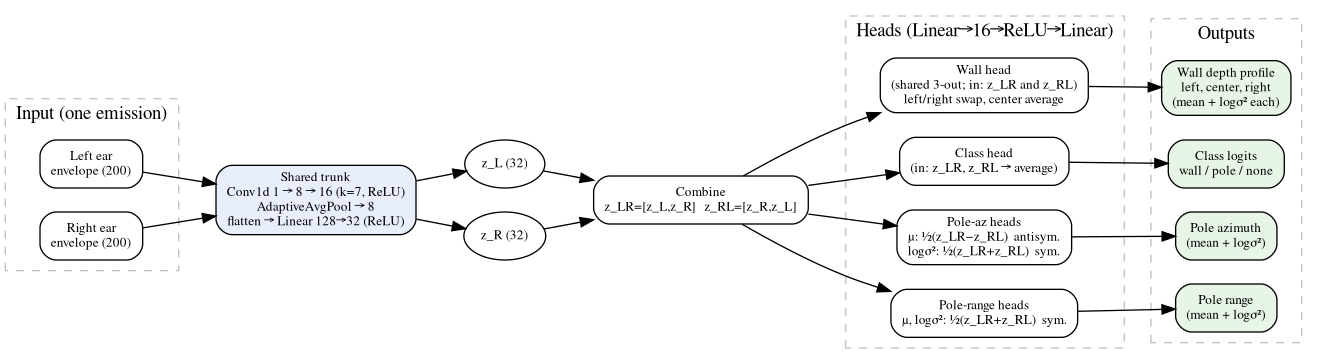
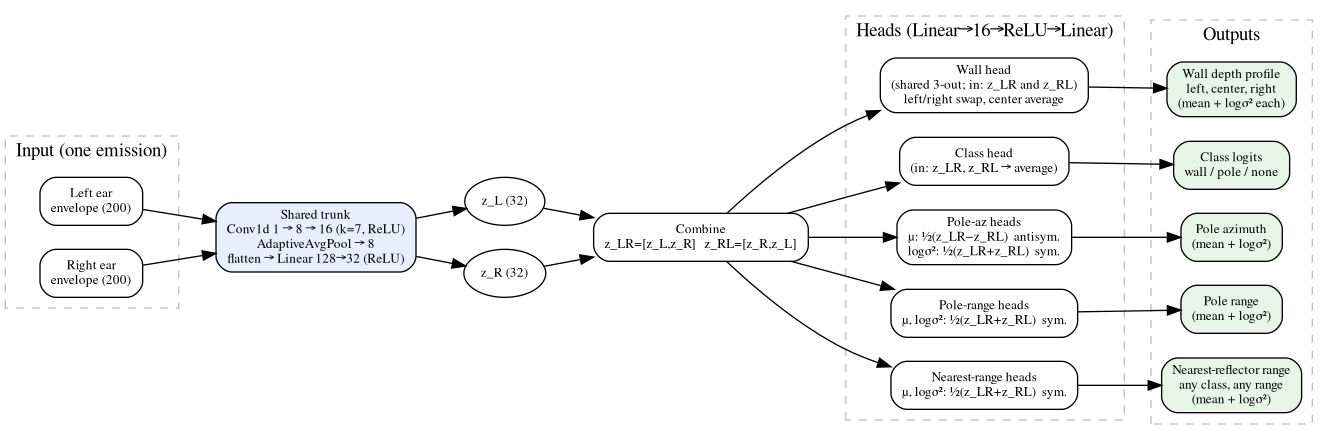
Paper: add the class-agnostic range head to fig 3
The network figure showed four heads; the deployed model has had five
since 8a3936a. fig_network.py now instantiates with agn_dist_head=True
and draws the nearest-reflector range head and its output.

The wiring was read off SonarModel.forward rather than assumed: the
agnostic head is mirror-symmetric, combined as (z_LR + z_RL)/2 like the
pole-range head, not antisymmetric like pole azimuth.

Checked CFG against the deployed SonarModel/inverse_feature_params.json
(architecture.wall3_symmetric / wall3_pole_dist / wall3_agn_dist all
true, and every layer dimension). They agree today, but CFG is
hard-coded and nothing enforces that -- worth reading from
feature_params with a CFG fallback if this drifts again.

Caption and the two body sentences that count heads go four -> five, and
"three regression heads" -> four. The caption now states what separates
the two range heads: pole range is masked to poles within 1 m and feeds
the terminal approach stop, nearest-reflector range trains on every echo
at every range.

Still stale in this subsection: the training objective and
tab:inverse-params do not mention the fifth head.

Claude-Session: https://claude.ai/code/session_0154RJNUjkho1gxRgDvTdzco

Changed region(s): [[0.0, 0.0302, 0.9954, 0.967]]

diff --git a/Paper/main.tex b/Paper/main.tex
@@ -138,7 +138,7 @@ For each robot position and orientation, we also collected a visual snapshot usi
 
 \subsubsection{Inverse-model architecture and training}
 
-We implemented the inverse model as a convolutional network (Fig.~\ref{fig:network}). A shared trunk of one-dimensional convolutions, pooling, and a fully connected layer encodes each ear's envelope into a 32-element embedding ($z_L$ and $z_R$). Four output heads use these embeddings: \emph{classification} (wall, pole, or none), \emph{depth} (the three wall distances), \emph{azimuth} (the pole's azimuth), and \emph{range} (the pole's distance). The last three are heteroscedastic regression heads, each returning both a value and a variance to give every distance and bearing an uncertainty estimate.
+We implemented the inverse model as a convolutional network (Fig.~\ref{fig:network}). A shared trunk of one-dimensional convolutions, pooling, and a fully connected layer encodes each ear's envelope into a 32-element embedding ($z_L$ and $z_R$). Five output heads use these embeddings: \emph{classification} (wall, pole, or none), \emph{depth} (the three wall distances), \emph{azimuth} (the pole's azimuth), \emph{pole range} (the pole's distance), and \emph{nearest-reflector range} (the distance to the nearest reflector, whatever its class). The last four are heteroscedastic regression heads, each returning both a value and a variance to give every distance and bearing an uncertainty estimate.
 
 \cnote{}{We should clarify that these distance measures are not trivial. People might assume that sonar give distance for free but that's only when you have a nice isolated reflector.}
 
@@ -148,12 +148,12 @@ To a first approximation, the two ears are symmetric. Swapping the echoes should
   z_{LR} = [\,z_L,\, z_R\,], \qquad z_{RL} = [\,z_R,\, z_L\,],
 \end{equation}
 %
-We run each of the four heads twice, once using $z_{LR}$ as input and once using $z_{RL}$ as input. We then average the outputs after flipping the depth-head output and the azimuth-head sign for $z_{RL}$. The class and range heads needed no correction, as their outputs are unchanged by the swap, so we averaged them directly. We combine the predicted variances symmetrically, in the same way as the depth means. Encoding symmetry this way forces the model to respect it exactly. It also roughly doubles the effective training data (each emission serves as its mirror image) and reduces the parameter count. This symmetry constraint is not strictly necessary: a variant without it, free to learn left-right asymmetries, fit the depth profile slightly worse (data not shown). Table~\ref{tab:inverse-params} lists the configuration.
+We run each of the five heads twice, once using $z_{LR}$ as input and once using $z_{RL}$ as input. We then average the outputs after flipping the depth-head output and the azimuth-head sign for $z_{RL}$. The class and range heads needed no correction, as their outputs are unchanged by the swap, so we averaged them directly. We combine the predicted variances symmetrically, in the same way as the depth means. Encoding symmetry this way forces the model to respect it exactly. It also roughly doubles the effective training data (each emission serves as its mirror image) and reduces the parameter count. This symmetry constraint is not strictly necessary: a variant without it, free to learn left-right asymmetries, fit the depth profile slightly worse (data not shown). Table~\ref{tab:inverse-params} lists the configuration.
 
 \begin{figure}[htb]
     \centering
     \includegraphics[width=\textwidth]{fig_network}
-    \caption{Architecture of the convolutional neural network we used to implement and train the inverse model. An emission produces one echo envelope per ear (200 samples), which a shared trunk encodes into 32-dimensional embeddings $z_L$ and $z_R$; these feed four output heads: classification, wall depth, pole azimuth, and pole range. \emph{Combine} forms the two ear orderings $z_{LR}=[z_L,z_R]$ and $z_{RL}=[z_R,z_L]$. Each head consists of a small two-layer network. The \emph{wall} head is a single three-output head applied to both orderings, giving the nearest-wall distance in the left, center, and right thirds of the field of view; the swap exchanges its left and right outputs, so those two distances are read from the two orderings, while its center output is averaged over them. The \emph{class} head averages its output over both orderings, giving a wall/pole/none prediction that is unchanged when the ears are swapped, and the \emph{pole-range} head is averaged in the same way, since a pole and its mirror image lie at the same distance. The \emph{pole-azimuth} mean is the only antisymmetric output, $\tfrac{1}{2}(z_{LR}-z_{RL})$, and so flips sign with the swap. The three regression heads are heteroscedastic: each returns a mean and a log-variance, $\log\sigma^2$, the latter expressing the model's per-estimate uncertainty.}
+    \caption{Architecture of the convolutional neural network we used to implement and train the inverse model. An emission produces one echo envelope per ear (200 samples), which a shared trunk encodes into 32-dimensional embeddings $z_L$ and $z_R$; these feed five output heads: classification, wall depth, pole azimuth, pole range, and nearest-reflector range. \emph{Combine} forms the two ear orderings $z_{LR}=[z_L,z_R]$ and $z_{RL}=[z_R,z_L]$. Each head consists of a small two-layer network. The \emph{wall} head is a single three-output head applied to both orderings, giving the nearest-wall distance in the left, center, and right thirds of the field of view; the swap exchanges its left and right outputs, so those two distances are read from the two orderings, while its center output is averaged over them. The \emph{class} head averages its output over both orderings, giving a wall/pole/none prediction that is unchanged when the ears are swapped, and the two \emph{range} heads are averaged in the same way, since a reflector and its mirror image lie at the same distance. The \emph{pole-range} head is trained only on echoes whose nearest reflector is a pole within $1$\,m, and supplies the terminal approach stop; the \emph{nearest-reflector-range} head is trained on every echo at every range, and so answers a question that needs no classification. The \emph{pole-azimuth} mean is the only antisymmetric output, $\tfrac{1}{2}(z_{LR}-z_{RL})$, and so flips sign with the swap. The four regression heads are heteroscedastic: each returns a mean and a log-variance, $\log\sigma^2$, the latter expressing the model's per-estimate uncertainty.}
     \label{fig:network}
 \end{figure}
 

diff --git a/Paper/images/scripts/fig_network.py b/Paper/images/scripts/fig_network.py
@@ -1,12 +1,16 @@
 """Architecture overview of the inverse model.
 
 Instantiates SonarSlicesUQ_Wall3 (the deployed B architecture: one shared
-3-output wall head, no z_sym, plus the pole-range head added 2026-07-29), reads
-its real layer dimensions, and renders a Graphviz data-flow diagram that shows
-the shared dual-ear trunk and the symmetric / antisymmetric head wiring (the
-part `print(model)` hides). Note that pole azimuth is the only antisymmetric
-output: range is invariant under the left-right mirror, so it combines the two
-ear orderings by averaging, like the class head.
+3-output wall head, no z_sym, plus the pole-range head added 2026-07-29 and the
+class-agnostic nearest-reflector range head added 2026-08-12), reads its real
+layer dimensions, and renders a Graphviz data-flow diagram that shows the shared
+dual-ear trunk and the symmetric / antisymmetric head wiring (the part
+`print(model)` hides). Note that pole azimuth is the only antisymmetric output:
+both range heads are invariant under the left-right mirror, so they combine the
+two ear orderings by averaging, like the class head.
+
+The five heads match the deployed model's feature_params (architecture.wall3_*):
+symmetric, pole_dist and agn_dist all on.
 
 This is NOT a matplotlib figure -- it shells out to the `dot` binary -- so it
 does not use style.py. Tunables are the constants below.
@@ -58,16 +62,18 @@ TEMPLATE = r'''digraph G {{
     cls  [label="Class head\n(in: z_LR, z_RL → average)"];
     pole [label="Pole-az heads\nμ: ½(z_LR−z_RL)  antisym.\nlogσ²: ½(z_LR+z_RL)  sym."];
     prng [label="Pole-range heads\nμ, logσ²: ½(z_LR+z_RL)  sym."];
+    argn [label="Nearest-range heads\nμ, logσ²: ½(z_LR+z_RL)  sym."];
   }}
-  comb -> wall; comb -> cls; comb -> pole; comb -> prng;
+  comb -> wall; comb -> cls; comb -> pole; comb -> prng; comb -> argn;
 
   subgraph cluster_out {{ label="Outputs"; style=dashed; color=gray;
     ocls  [label="Class logits\n{classes}", style="rounded,filled", fillcolor="{out_fill}"];
     owall [label="Wall depth profile\nleft, center, right\n(mean + logσ² each)", style="rounded,filled", fillcolor="{out_fill}"];
     opole [label="Pole azimuth\n(mean + logσ²)", style="rounded,filled", fillcolor="{out_fill}"];
     oprng [label="Pole range\n(mean + logσ²)", style="rounded,filled", fillcolor="{out_fill}"];
+    oagn  [label="Nearest-reflector range\nany class, any range\n(mean + logσ²)", style="rounded,filled", fillcolor="{out_fill}"];
   }}
-  wall -> owall; cls -> ocls; pole -> opole; prng -> oprng;
+  wall -> owall; cls -> ocls; pole -> opole; prng -> oprng; argn -> oagn;
 }}'''
 
 
@@ -86,7 +92,8 @@ def build_dot(m):
 
 
 def main():
-    m = SonarSlicesUQ_Wall3(**CFG, symmetric=True, pole_dist_head=True)
+    m = SonarSlicesUQ_Wall3(**CFG, symmetric=True, pole_dist_head=True,
+                            agn_dist_head=True)
     dot = build_dot(m)
     (OUT / f"{NAME}.dot").write_text(dot)
     for fmt in FORMATS:
